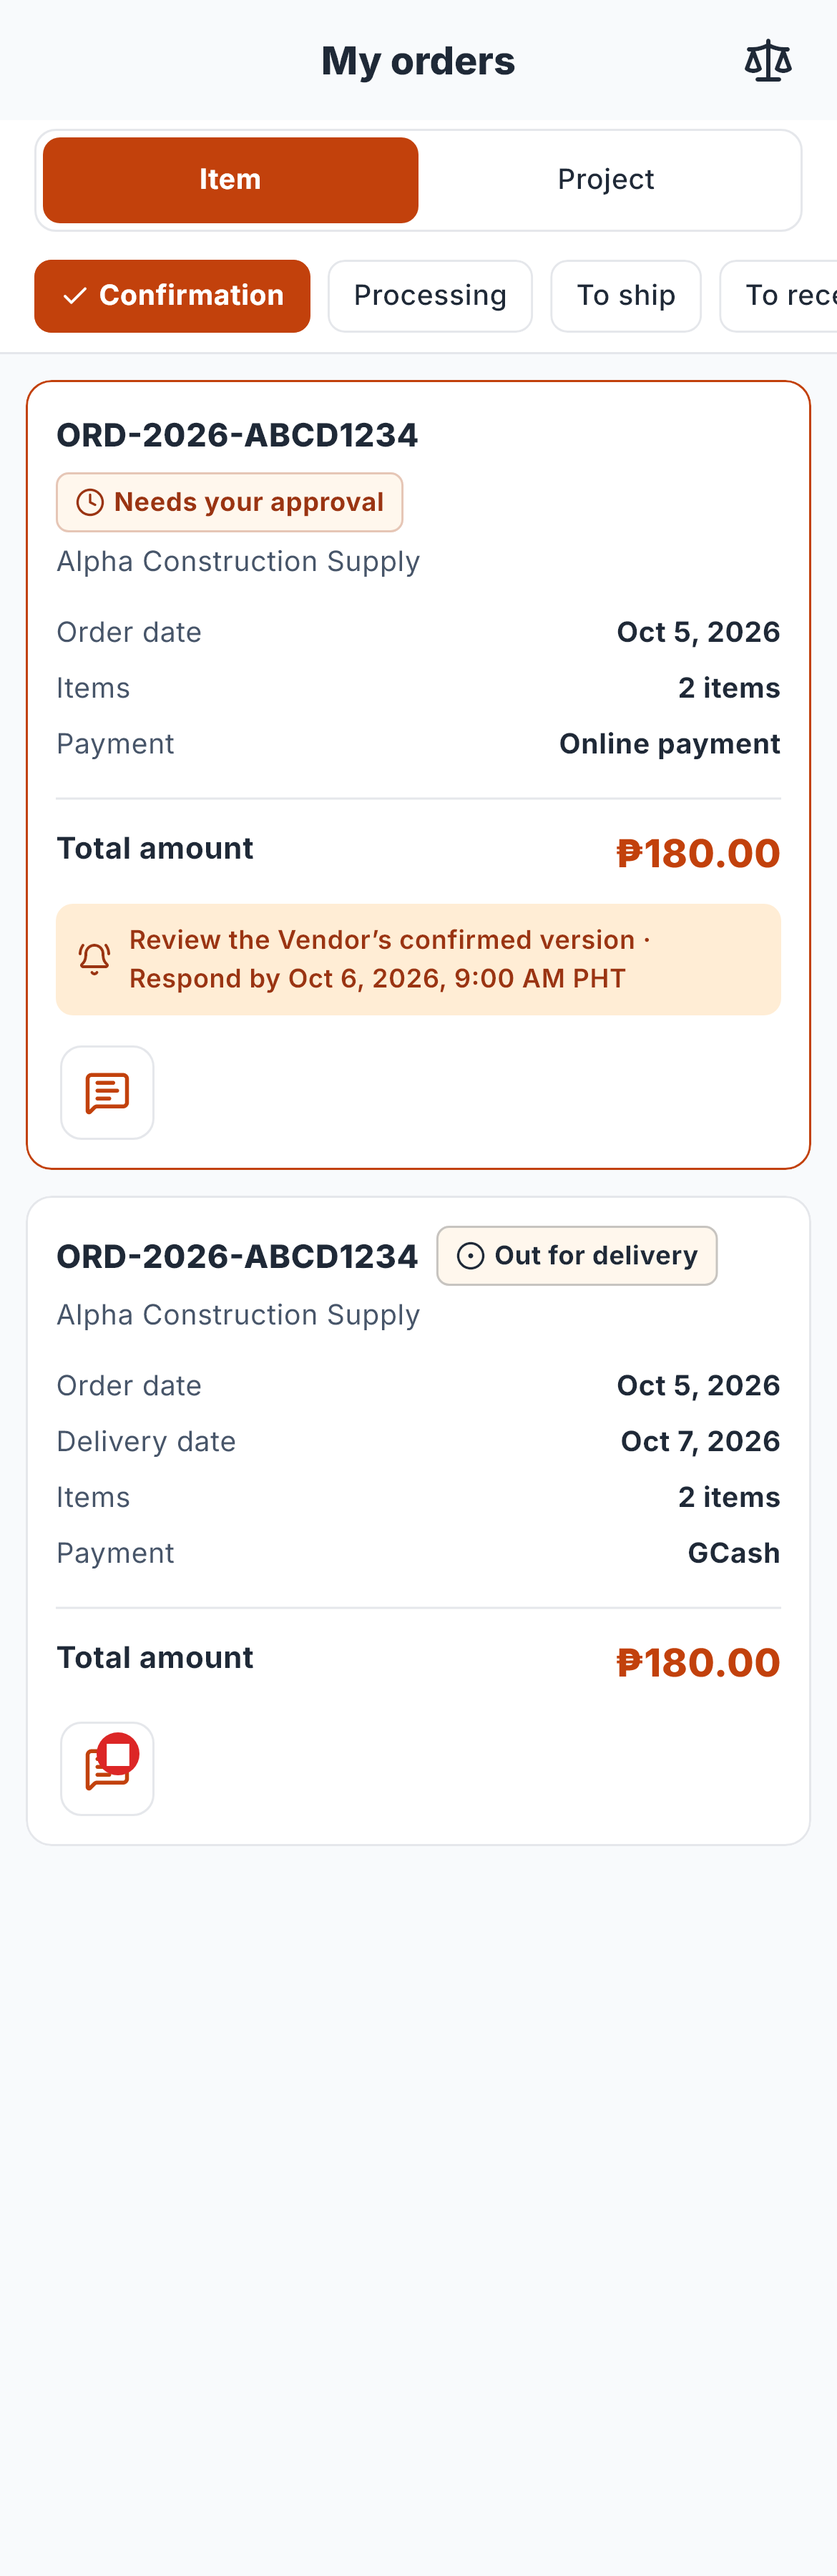
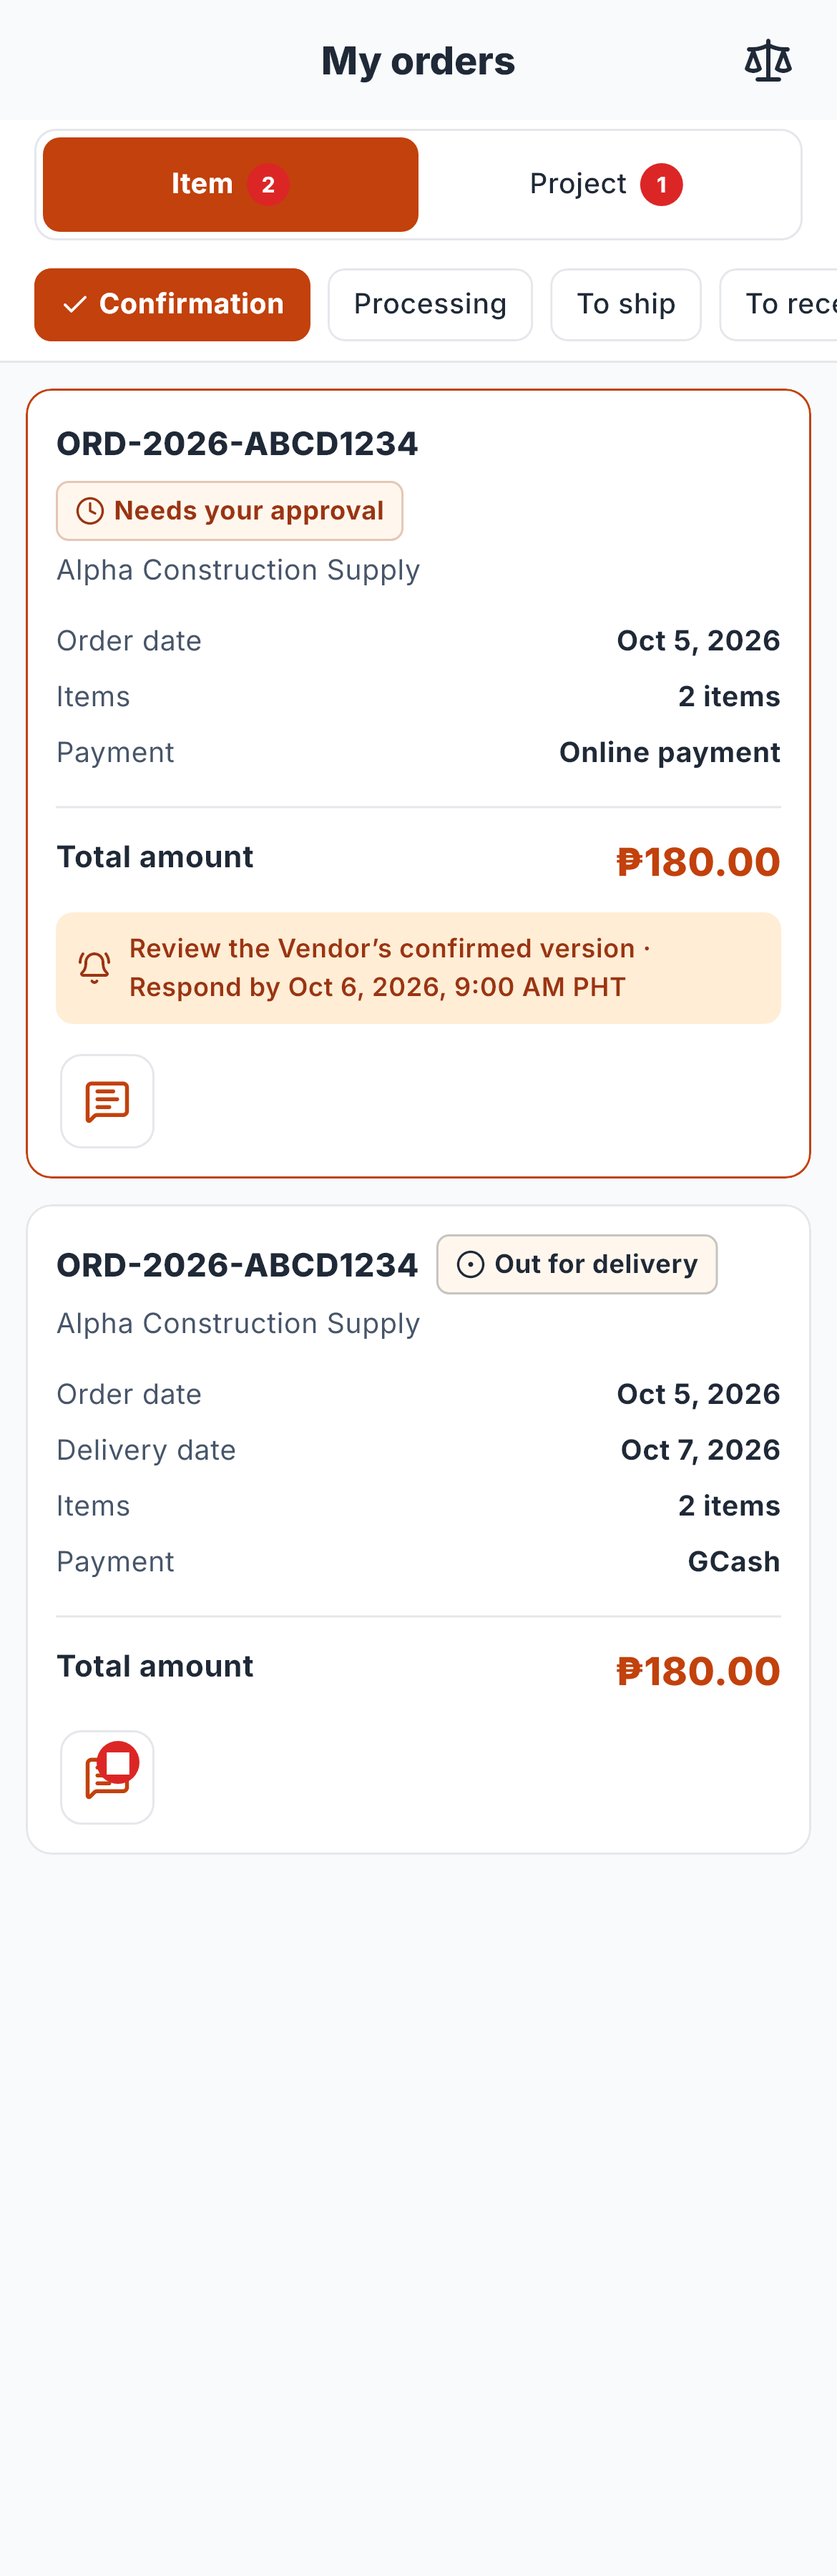
test(buyer): refresh order hub golden for active counts

diff --git a/apps/buyer-mobile/test/phase8_capture_test.dart b/apps/buyer-mobile/test/phase8_capture_test.dart
@@ -153,6 +153,7 @@ void main() {
               ),
             ],
             counts: const {'ALL': 2},
+            activeCounts: const {'ITEM_BASED': 2, 'PROJECT_BASED': 1},
             page: 1,
             hasMore: false,
             total: 2,

diff --git a/docs/test-plans/ci-quality-gates-run-134.md b/docs/test-plans/ci-quality-gates-run-134.md
@@ -1,0 +1,39 @@
+# Quality gates repair - run 134
+
+Reviewed [GitHub Actions run 134](https://github.com/Capstone2026Team/MateryalPH-Capstone-Project/actions/runs/42973987931), commit `9031a7ec2dea2f8c68a6e741ab21c6cee878aafd`, through the authenticated GitHub API.
+
+## Cause and repair
+
+The only failing job was **Flutter Buyer app**, at **Test Buyer app**. The `order hub` golden in `test/phase8_capture_test.dart` differed from `docs/design/evidence/phase-8/390-order-hub.png` by **8.48%, 357,180 pixels**. The unchanged local test reproduced those exact values with Flutter 3.47.3 and Dart 3.13.3, matching CI.
+
+The approved active-order tab update increased the Item/Project controls from 40 to 44 logical pixels, shifting the content below them. The committed baseline still showed the earlier controls. Visual review confirmed the expected shift with the existing order facts, actions and layout preserved.
+
+Updated only the order-hub baseline, using the exact test-name filter. The synthetic capture fixture now supplies `ITEM_BASED: 2` and `PROJECT_BASED: 1` active totals so the same screenshot also covers both new tab badges. Other golden baselines and the pixel comparison remain unchanged.
+
+All other hosted jobs succeeded, including the backend, OpenAPI/generated clients, portals, four browser shards, iOS simulator build, infrastructure, dependency audits and secret scan. The aggregate job failed because the Buyer test job failed. The original hosted Buyer result was **749 passed, one failed, one skipped**; it does not describe the repaired checkout.
+
+## Files and boundaries
+
+- `apps/buyer-mobile/test/phase8_capture_test.dart`: synthetic active-count fixture.
+- `docs/design/evidence/phase-8/390-order-hub.png`: reviewed current baseline.
+- This report.
+
+No production application, migration, API contract, generated client, authorization, financial rule, credential or workflow-gate change. No new environment keys or manual setup are required. Failure diagnostics were retained under ignored `.tmp/ci-run134/`; tracked diagnostic images were restored from their original local copies.
+
+## Local validation
+
+| Check | Result |
+| --- | --- |
+| Unchanged `order hub` golden | Reproduced the exact hosted failure before repair. |
+| Filtered `order hub --update-goldens` | Passed; only the intended baseline changed. |
+| Dart formatting check for Buyer `lib` and `test` | Passed: 308 files, zero changes. |
+| `flutter test --no-pub --reporter expanded` | Passed: **750 tests, one existing skip, zero failures**, including the order-hub comparison and the remaining golden tests. |
+| `flutter analyze --no-pub` | Passed: no issues found. |
+| Gitleaks on changed fixture/report source and staged changes | Passed; no leaks. The staged scan was empty because nothing was staged. |
+| `git diff --check` and final diff review | Passed; only the fixture, intended baseline and this report changed. |
+
+Backend, portal, iOS-build and infrastructure checks were not rerun locally for this test-only change. The screenshots use synthetic data; physical-device and provider acceptance were not performed.
+
+No commit, push, rerun or deployment was performed. A fresh hosted run on the repaired commit remains required.
+
+Suggested commit: `test(buyer): refresh order hub golden for active counts`
